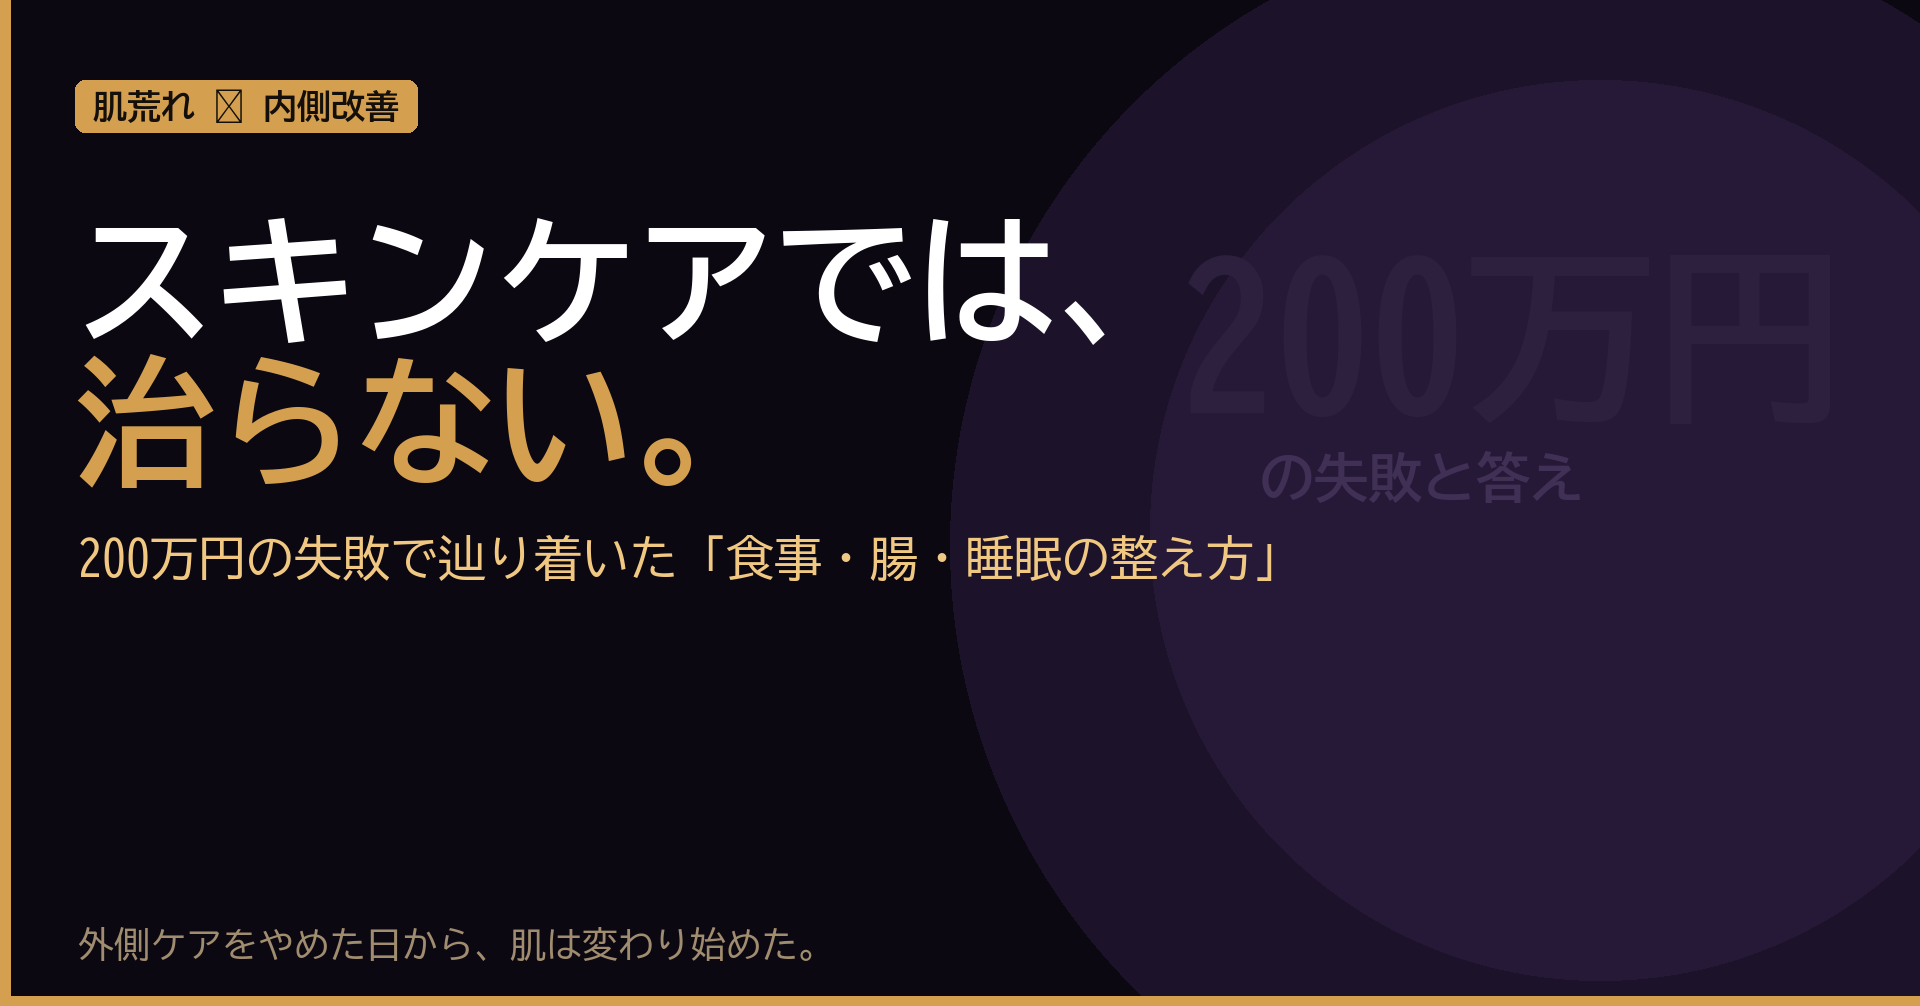
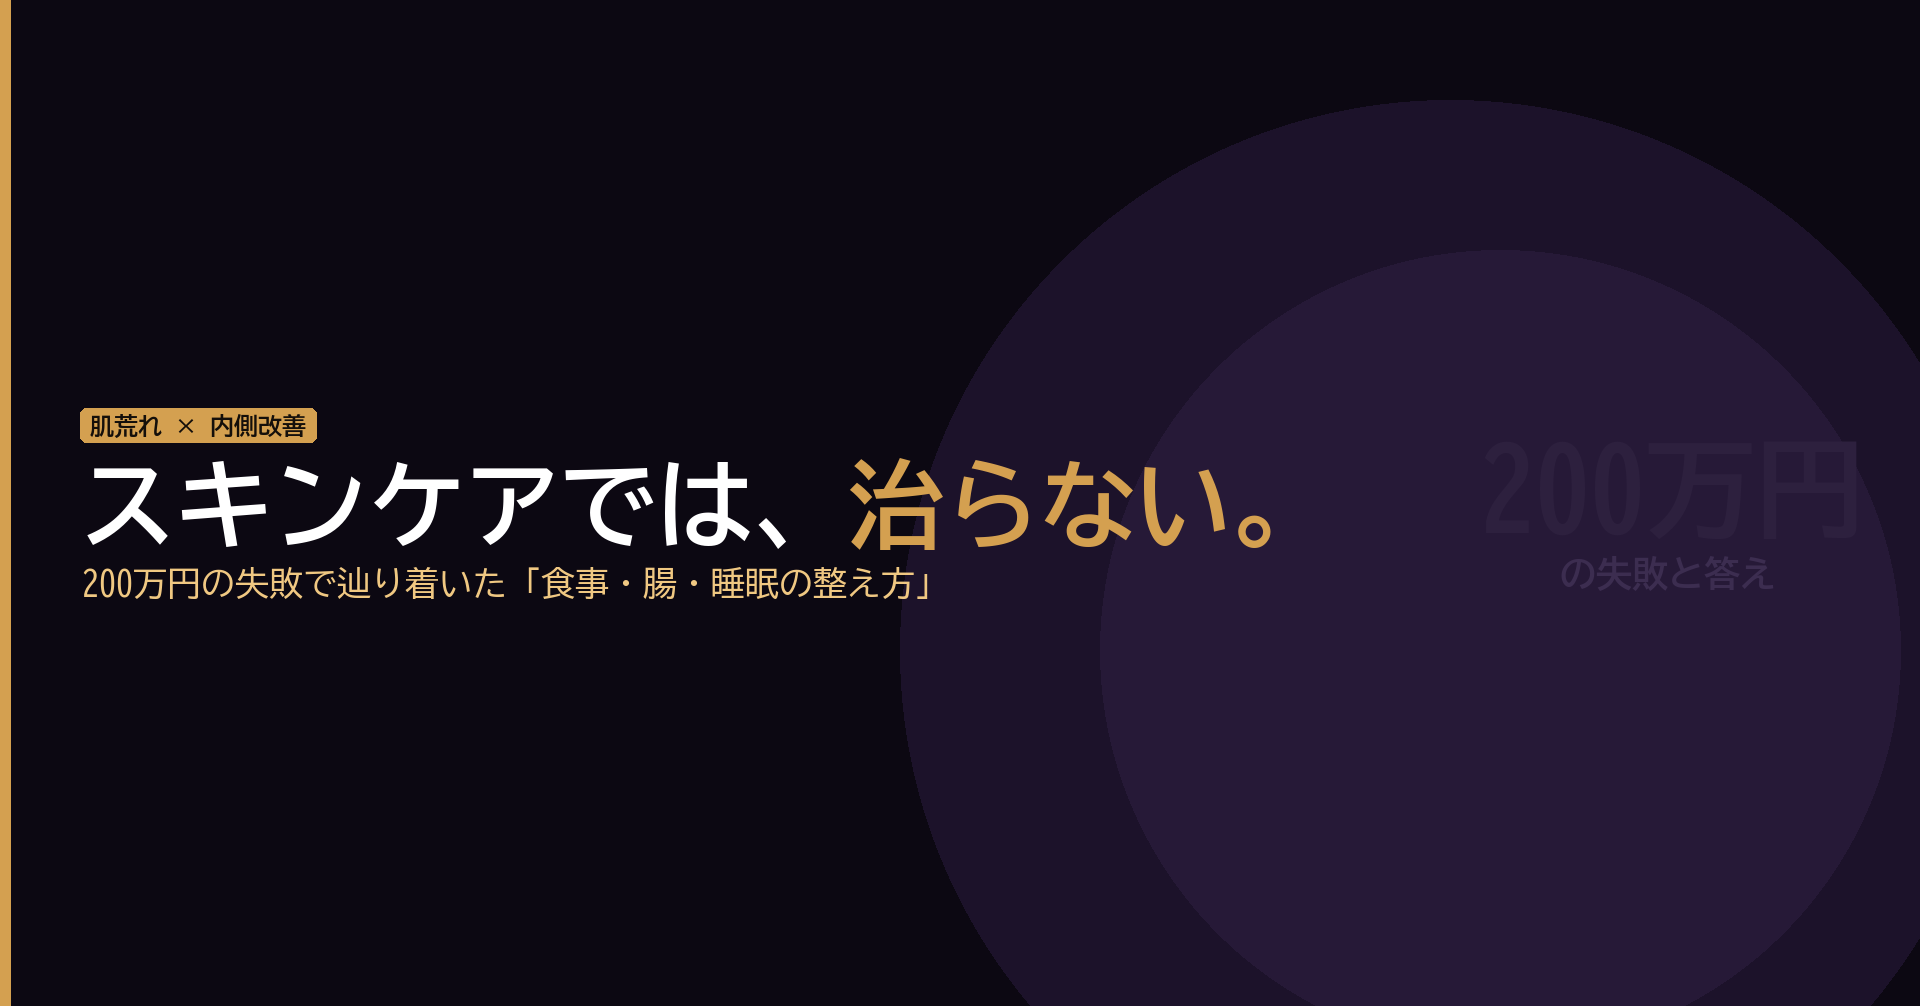
自動同期: 2026/05/02 23:00

diff --git a/skin/create_note_header.py b/skin/create_note_header.py
@@ -47,88 +47,78 @@ def create_header():
     img  = Image.new("RGB", (WIDTH, HEIGHT), BG_COLOR)
     draw = ImageDraw.Draw(img)
 
-    # ===== 背景の装飾：右側に大きな薄い円（奥行き感）=====
-    circle_color_1 = (28, 18, 42)
-    circle_color_2 = (38, 25, 55)
-    draw.ellipse([950, -80, 2200, 1170], fill=circle_color_1)
-    draw.ellipse([1150, 80, 2050, 980], fill=circle_color_2)
+    # noteのヘッダーは「縦中央の約200px帯」だけが表示される
+    # 全要素をその範囲に収めるため、高さを事前に計算して中央揃えする
 
-    # ===== 左端のアクセントバー（縦のゴールドライン）=====
+    CENTER_Y = HEIGHT // 2  # 縦中央 = 503px
+
+    # ===== 背景装飾：右側の薄い円 =====
+    draw.ellipse([900, 100, 2000, 1200], fill=(28, 18, 42))
+    draw.ellipse([1100, 250, 1900, 1050], fill=(38, 25, 55))
+
+    # ===== 左端のアクセントバー =====
     draw.rectangle([0, 0, 10, HEIGHT], fill=ACCENT_COLOR)
 
-    # ===== 下部のアクセントライン =====
-    draw.rectangle([0, HEIGHT - 10, WIDTH, HEIGHT], fill=ACCENT_COLOR)
+    # ===== フォントを準備 =====
+    font_tag  = ImageFont.truetype(FONT_BOLD,   24)   # タグ
+    font_main = ImageFont.truetype(FONT_BOLD,   96)   # メインコピー（1行にまとめる）
+    font_sub  = ImageFont.truetype(FONT_NORMAL, 34)   # サブコピー
 
-    # ===== 上部タグ：「肌荒れ 内側改善」=====
-    font_tag = ImageFont.truetype(FONT_BOLD, 34)
-    tag_text = "肌荒れ ✕ 内側改善"
-    tag_bbox = draw.textbbox((0, 0), tag_text, font=font_tag)
-    tag_w    = tag_bbox[2] - tag_bbox[0]
-    tag_h    = tag_bbox[3] - tag_bbox[1]
-    tag_pad  = 18
-    tag_x    = 75
-    tag_y    = 80
+    tag_text  = "肌荒れ × 内側改善"
+    main_text = "スキンケアでは、治らない。"
+    sub_text  = "200万円の失敗で辿り着いた「食事・腸・睡眠の整え方」"
 
-    # タグの背景（ゴールドの角丸バッジ）
+    # ===== 各行の高さを計算 =====
+    tag_bbox  = draw.textbbox((0, 0), tag_text,  font=font_tag)
+    main_bbox = draw.textbbox((0, 0), main_text, font=font_main)
+    sub_bbox  = draw.textbbox((0, 0), sub_text,  font=font_sub)
+
+    tag_h  = tag_bbox[3]  - tag_bbox[1]
+    main_h = main_bbox[3] - main_bbox[1]
+    sub_h  = sub_bbox[3]  - sub_bbox[1]
+
+    tag_pad   = 10
+    gap1      = 14   # タグ〜メインの間
+    gap2      = 18   # メイン〜サブの間
+    tag_total = tag_h + tag_pad  # タグバッジ全体の高さ
+
+    # 全体の高さ → 縦中央になる開始Y座標を求める
+    total_h = tag_total + gap1 + main_h + gap2 + sub_h
+    start_y = CENTER_Y - total_h // 2
+
+    # ===== タグバッジを描く =====
+    tag_w   = tag_bbox[2] - tag_bbox[0]
+    tag_x   = 80
+    tag_y   = start_y
     draw_rounded_rect(
         draw,
-        (tag_x, tag_y, tag_x + tag_w + tag_pad * 2, tag_y + tag_h + tag_pad),
-        radius=10,
+        (tag_x, tag_y, tag_x + tag_w + tag_pad * 2, tag_y + tag_total),
+        radius=6,
         fill=ACCENT_COLOR,
     )
-    # タグのテキスト（黒文字）
-    draw.text(
-        (tag_x + tag_pad, tag_y + tag_pad // 2),
-        tag_text,
-        font=font_tag,
-        fill=(20, 15, 10),
-    )
+    draw.text((tag_x + tag_pad, tag_y + tag_pad // 2), tag_text, font=font_tag, fill=(20, 15, 10))
 
-    # ===== メインキャッチコピー（2行）=====
-    font_main = ImageFont.truetype(FONT_BOLD, 140)
+    # ===== メインコピー（白 + 末尾「治らない。」だけゴールド）=====
+    main_y = start_y + tag_total + gap1
 
-    line1 = "スキンケアでは、"
-    line2 = "治らない。"
+    # 「スキンケアでは、」を白で描く
+    part1      = "スキンケアでは、"
+    part1_bbox = draw.textbbox((0, 0), part1, font=font_main)
+    part1_w    = part1_bbox[2] - part1_bbox[0]
+    draw.text((80, main_y), part1, font=font_main, fill=WHITE)
 
-    title_y = 210  # タイトルの開始Y座標（縦中央寄りに配置）
+    # 「治らない。」をゴールドで続けて描く
+    draw.text((80 + part1_w, main_y), "治らない。", font=font_main, fill=ACCENT_COLOR)
 
-    # 1行目
-    draw.text((75, title_y), line1, font=font_main, fill=WHITE)
-    bbox1 = draw.textbbox((0, 0), line1, font=font_main)
-    h1 = bbox1[3] - bbox1[1]
+    # ===== サブコピー =====
+    sub_y = main_y + main_h + gap2
+    draw.text((82, sub_y), sub_text, font=font_sub, fill=LIGHT_GOLD)
 
-    # 2行目（ゴールド色で強調）
-    draw.text((75, title_y + h1 + 14), line2, font=font_main, fill=ACCENT_COLOR)
-    bbox2 = draw.textbbox((0, 0), line2, font=font_main)
-    h2 = bbox2[3] - bbox2[1]
-
-    # ===== サブコピー（小さめ・明るいゴールド）=====
-    font_sub = ImageFont.truetype(FONT_NORMAL, 48)
-    sub_y = title_y + h1 + 14 + h2 + 48
-
-    draw.text(
-        (78, sub_y),
-        "200万円の失敗で辿り着いた「食事・腸・睡眠の整え方」",
-        font=font_sub,
-        fill=LIGHT_GOLD,
-    )
-
-    # ===== 下部の小さい説明文 =====
-    font_small = ImageFont.truetype(FONT_NORMAL, 36)
-    draw.text(
-        (78, HEIGHT - 80),
-        "外側ケアをやめた日から、肌は変わり始めた。",
-        font=font_small,
-        fill=(160, 140, 110),
-    )
-
-    # ===== 右側の数字インパクト装飾 =====
-    font_num_big   = ImageFont.truetype(FONT_BOLD, 190)
-    font_num_small = ImageFont.truetype(FONT_BOLD, 54)
-
-    # 「200万円」を薄く大きく右側に配置
-    draw.text((1180, 240), "200万円", font=font_num_big, fill=(45, 32, 62))
-    draw.text((1260, 450), "の失敗と答え", font=font_num_small, fill=(65, 48, 85))
+    # ===== 右端に薄い「200万円」装飾 =====
+    font_num = ImageFont.truetype(FONT_BOLD, 110)
+    draw.text((1480, CENTER_Y - 70), "200万円", font=font_num, fill=(45, 32, 62))
+    font_num_s = ImageFont.truetype(FONT_BOLD, 36)
+    draw.text((1560, CENTER_Y + 52), "の失敗と答え", font=font_num_s, fill=(60, 45, 80))
 
     # ===== 保存 =====
     save_path = "/home/kenta_kamijyo/skin/note_header.png"